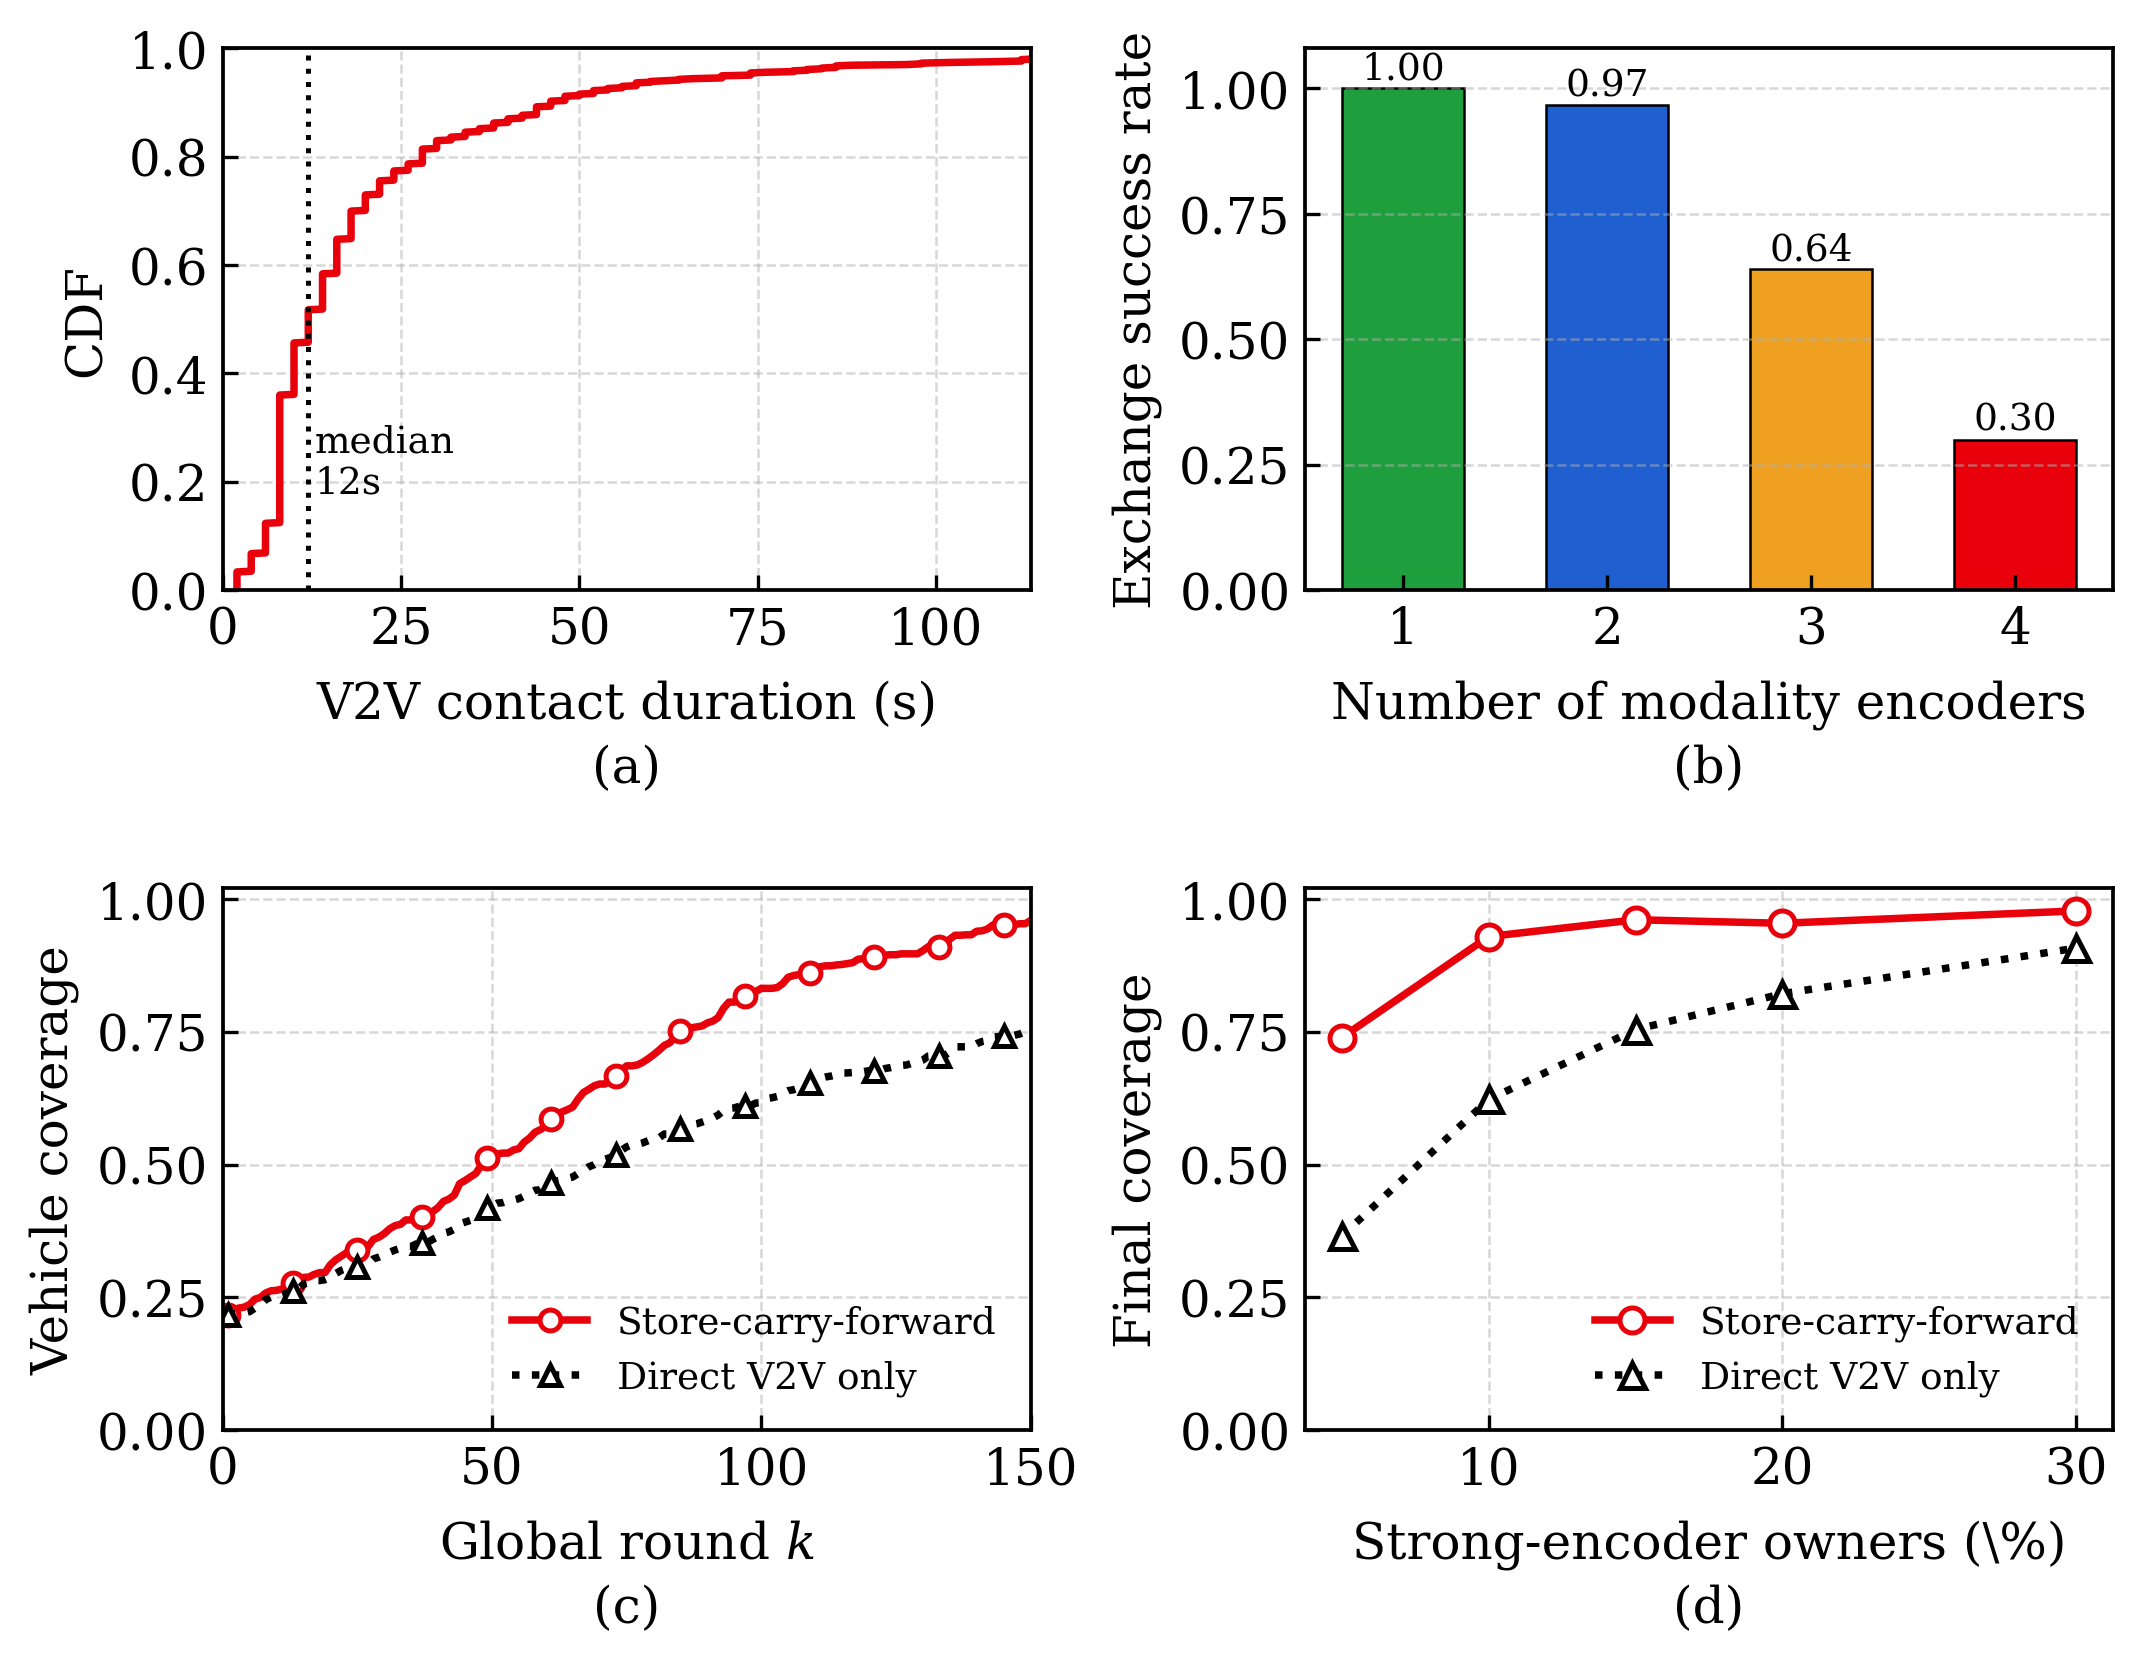
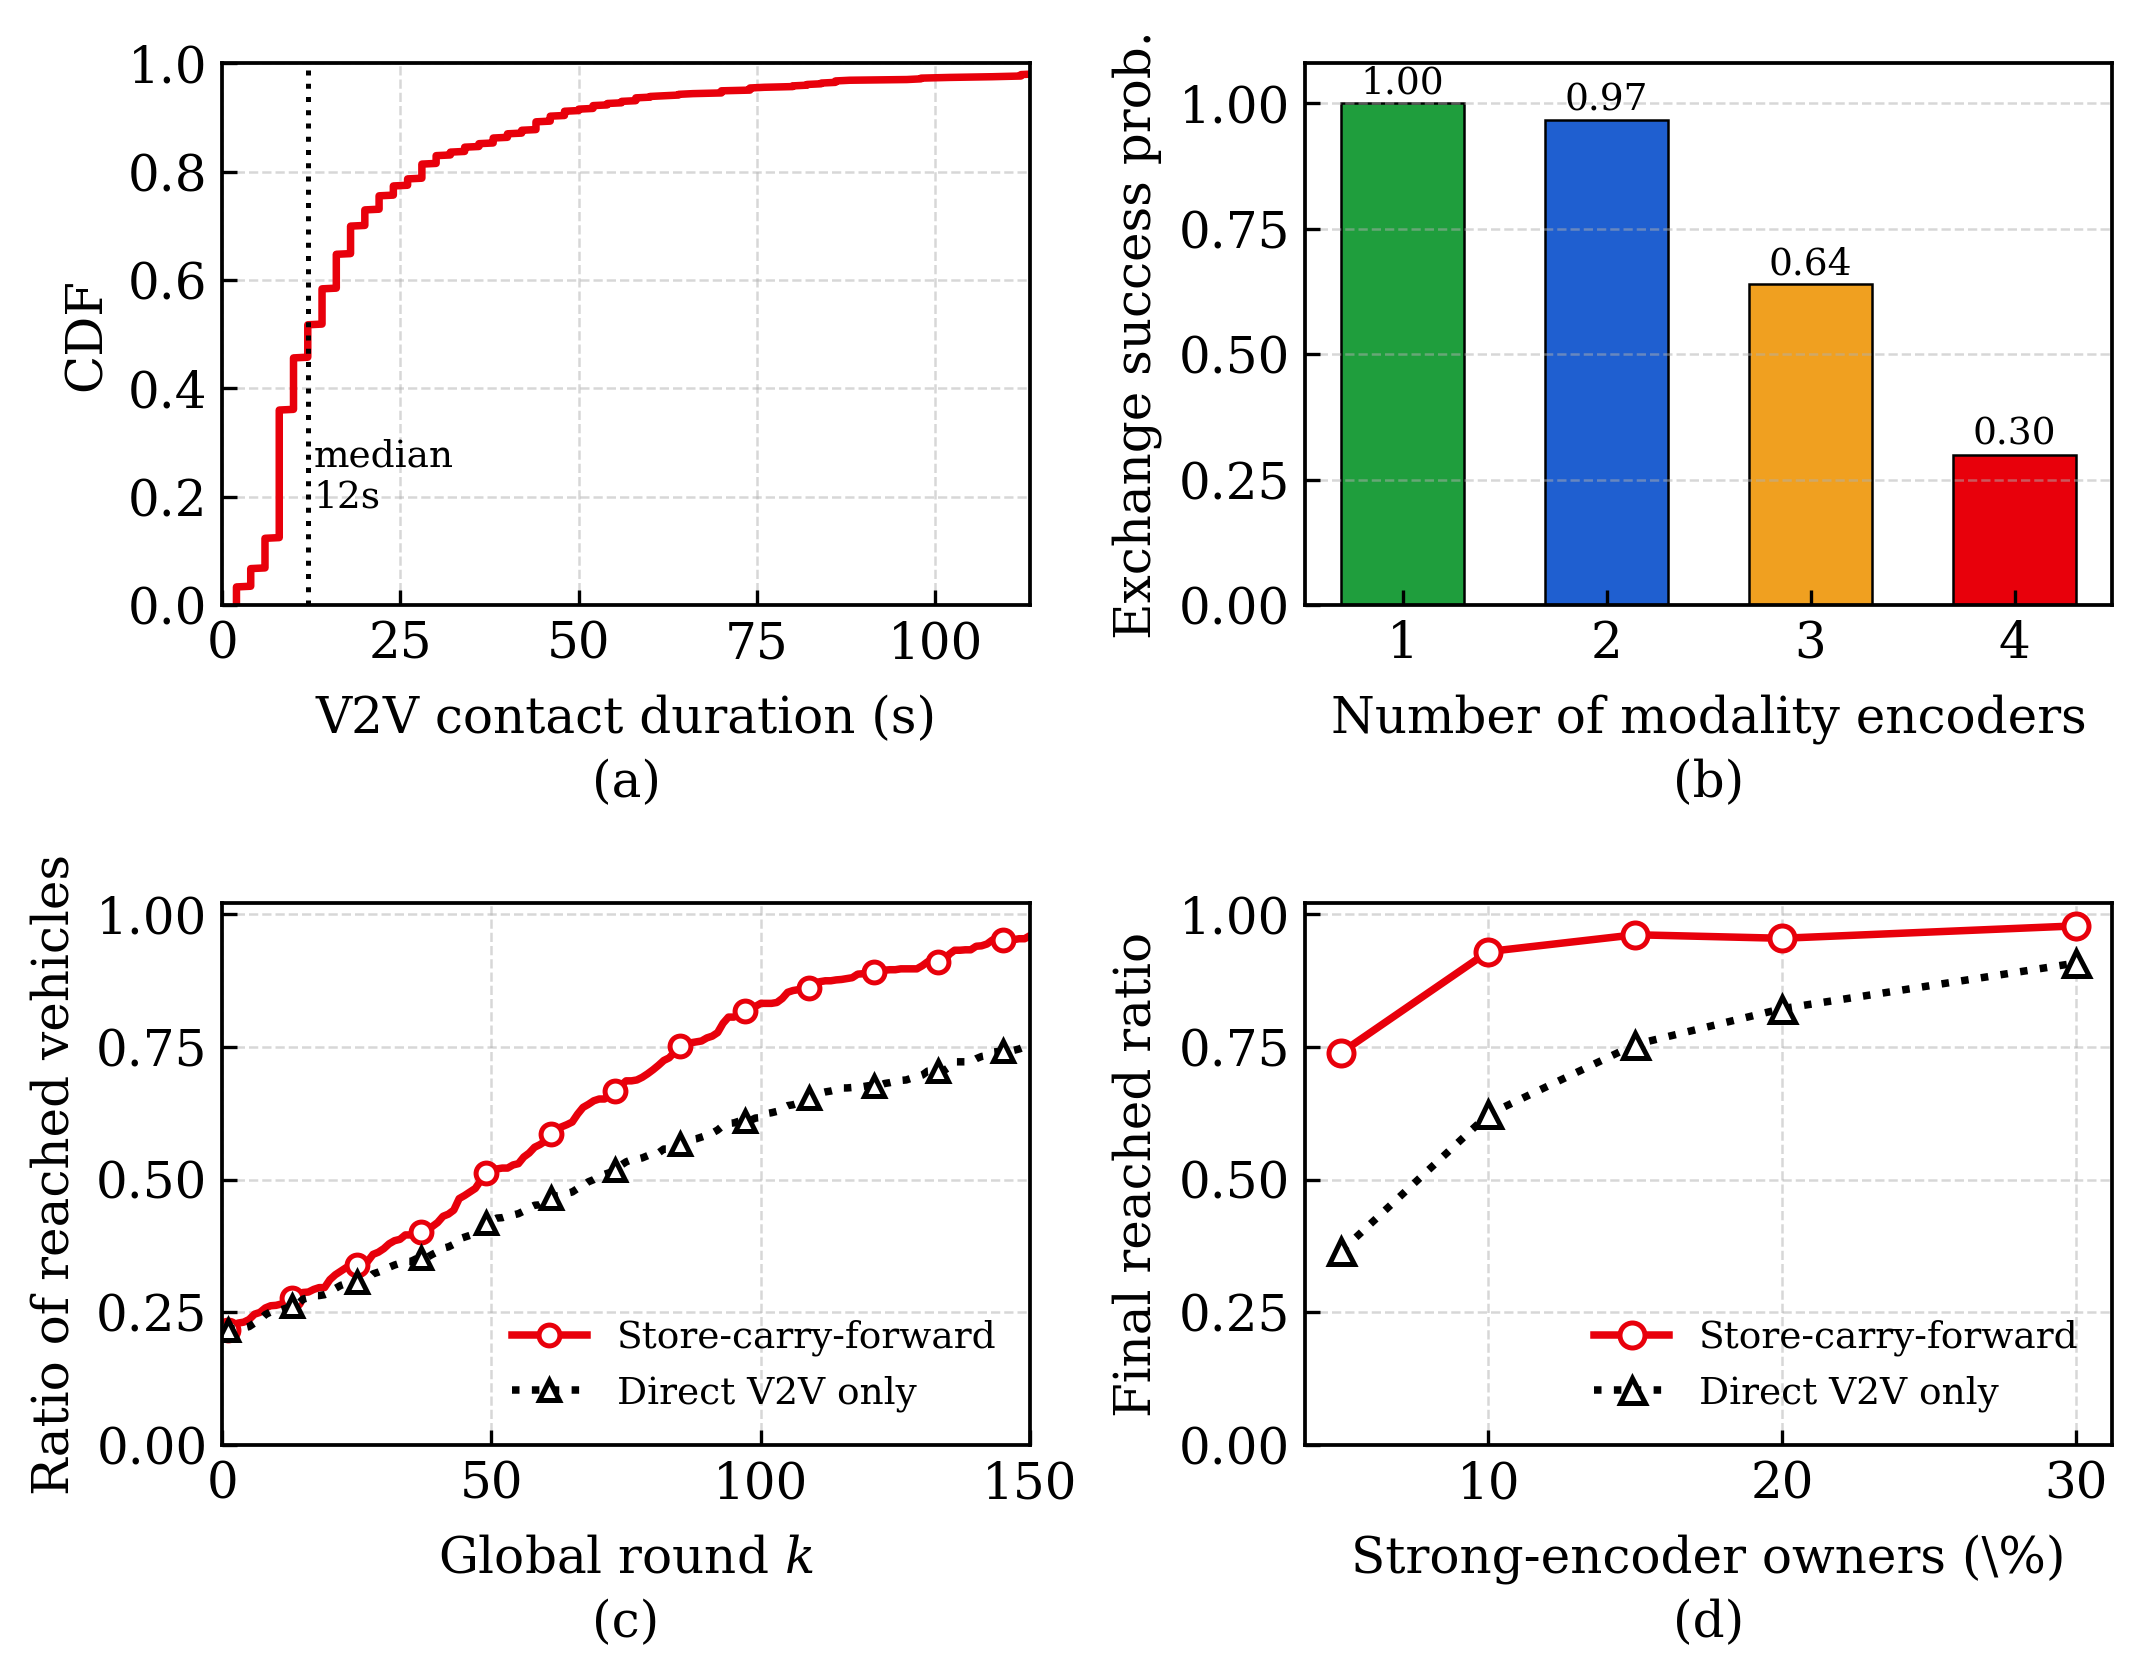
Clearer motivation labels: exchange success prob. / ratio of reached vehicles

diff --git a/sim/motivation.py b/sim/motivation.py
@@ -138,7 +138,7 @@ def make(cfg=None, rate=2.0):
         ax[0, 1].text(n, f + 0.02, f"{f:.2f}", ha="center", fontsize=9)
     ax[0, 1].set_xticks(range(1, 5))
     ax[0, 1].set_xlabel("Number of modality encoders", labelpad=6)
-    ax[0, 1].set_ylabel("Exchange success rate")
+    ax[0, 1].set_ylabel("Exchange success prob.")
     ax[0, 1].set_ylim(0, 1.08); ax[0, 1].grid(True, axis="y", ls="--", lw=0.6, alpha=0.5)
     ax[0, 1].set_title("(b)", y=-0.40, fontsize=12)
     # (c) reach over rounds
@@ -146,7 +146,7 @@ def make(cfg=None, rate=2.0):
                   markerfacecolor="white", markeredgewidth=1.2, label="Store-carry-forward")
     ax[1, 0].plot(x, direct, color=BLK, ls=":", marker="^", markevery=mi, ms=5,
                   markerfacecolor="white", markeredgewidth=1.2, label="Direct V2V only")
-    ax[1, 0].set_xlabel("Global round $k$", labelpad=6); ax[1, 0].set_ylabel("Vehicle coverage")
+    ax[1, 0].set_xlabel("Global round $k$", labelpad=6); ax[1, 0].set_ylabel("Ratio of reached vehicles")
     ax[1, 0].set_xlim(0, mob.Krounds); ax[1, 0].set_ylim(0, 1.02)
     ax[1, 0].grid(True, ls="--", lw=0.6, alpha=0.5); ax[1, 0].legend(fontsize=9, loc="lower right")
     ax[1, 0].set_title("(c)", y=-0.40, fontsize=12)
@@ -156,7 +156,7 @@ def make(cfg=None, rate=2.0):
     ax[1, 1].plot(np.array(fracs) * 100, fd, color=BLK, ls=":", marker="^", ms=6,
                   markerfacecolor="white", markeredgewidth=1.2, label="Direct V2V only")
     ax[1, 1].set_xlabel("Strong-encoder owners (\\%)", labelpad=6)
-    ax[1, 1].set_ylabel("Final coverage")
+    ax[1, 1].set_ylabel("Final reached ratio")
     ax[1, 1].set_ylim(0, 1.02); ax[1, 1].grid(True, ls="--", lw=0.6, alpha=0.5)
     ax[1, 1].legend(fontsize=9, loc="lower right")
     ax[1, 1].set_title("(d)", y=-0.40, fontsize=12)